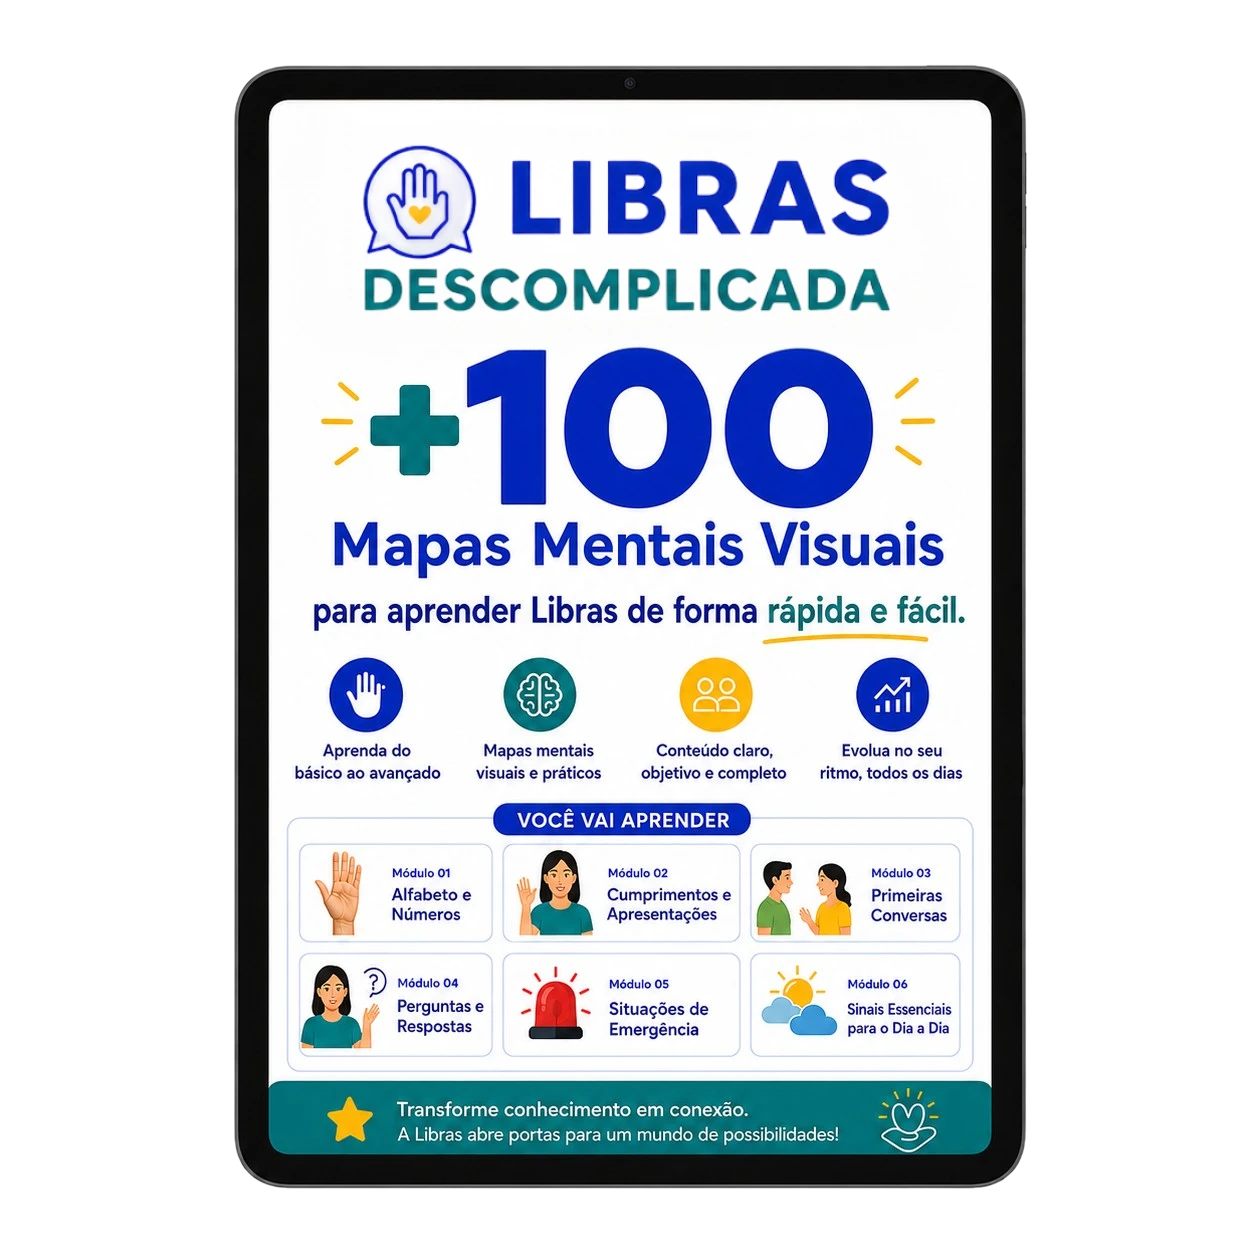
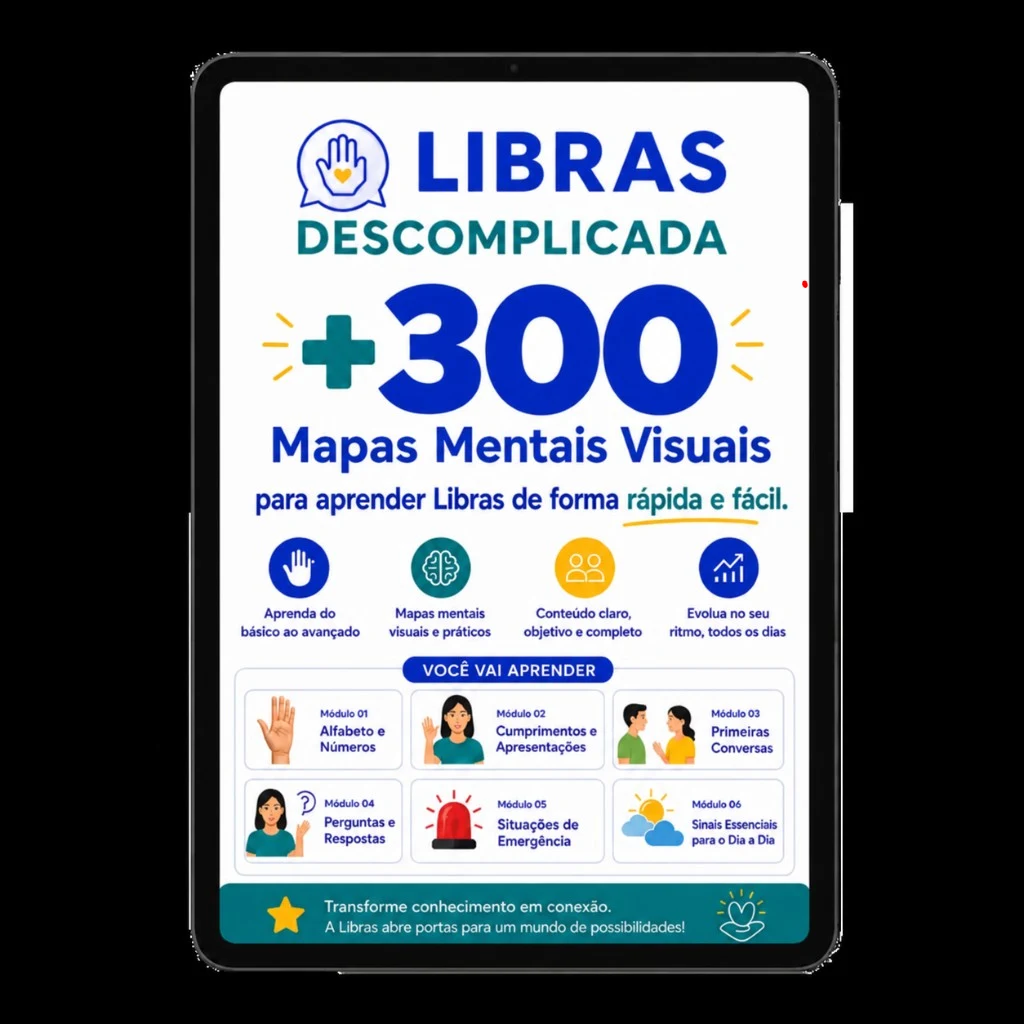
feat: add bonus value footers and refresh landing assets
Show original bonus prices with strikethrough and GRÁTIS labels, update hero/pricing visuals, and add testimonials section assets.

diff --git a/src/sections/TestimonialsSection.tsx b/src/sections/TestimonialsSection.tsx
@@ -1,0 +1,64 @@
+import Image from "next/image";
+
+const testimonials = [
+  {
+    src: "/images/ui/depoimento-mariana.webp",
+    alt: "Depoimento de Mariana S. no WhatsApp elogiando o método de mapas mentais de Libras",
+  },
+  {
+    src: "/images/ui/depoimento-ricardo.webp",
+    alt: "Depoimento de Ricardo no WhatsApp sobre a qualidade do material Descomplica Libras",
+  },
+  {
+    src: "/images/ui/depoimento-lucas.webp",
+    alt: "Depoimento de Lucas no WhatsApp recomendando o material para familiares",
+  },
+] as const;
+
+type Props = {
+  className?: string;
+  containerClassName?: string;
+};
+
+export function TestimonialsSection({
+  className = "bg-white py-10 sm:py-14 px-4",
+  containerClassName = "max-w-5xl mx-auto",
+}: Props) {
+  return (
+    <section className={className} aria-labelledby="testimonials-title">
+      <div className={containerClassName}>
+        <div className="text-center mb-8 sm:mb-10">
+          <h2
+            id="testimonials-title"
+            className="text-2xl sm:text-3xl md:text-4xl font-extrabold text-ink tracking-tight text-balance"
+          >
+            O que nossos clientes dizem
+          </h2>
+          <div className="mx-auto mt-3 mb-2.5 h-0.5 w-10 rounded-full bg-orange-400" aria-hidden="true" />
+          <p className="text-sm sm:text-base text-body/70 font-medium">
+            Depoimentos reais de quem já experimentou
+          </p>
+        </div>
+
+        <div className="flex flex-col items-center gap-5 sm:grid sm:grid-cols-3 sm:items-stretch sm:gap-4 lg:gap-6">
+          {testimonials.map((item) => (
+            <div
+              key={item.src}
+              className="w-full max-w-[20rem] sm:max-w-none rounded-2xl overflow-hidden shadow-[0_8px_24px_rgba(13,27,61,0.10)] border border-zinc-200/80 bg-white"
+            >
+              <Image
+                src={item.src}
+                alt={item.alt}
+                width={326}
+                height={418}
+                loading="lazy"
+                sizes="(max-width: 640px) 85vw, (max-width: 1024px) 28vw, 18rem"
+                className="w-full h-auto object-cover"
+              />
+            </div>
+          ))}
+        </div>
+      </div>
+    </section>
+  );
+}

diff --git a/src/sections/PricingSection.tsx b/src/sections/PricingSection.tsx
@@ -17,22 +17,22 @@ export function PricingSection() {
           {copy.pricing.title}
         </h2>
 
-        <div className="grid grid-cols-1 md:grid-cols-2 gap-8 md:gap-0 items-stretch max-w-md md:max-w-4xl mx-auto px-2 sm:px-0">
+        <div className="grid grid-cols-1 md:grid-cols-2 gap-8 md:gap-0 items-stretch max-w-lg md:max-w-4xl mx-auto px-1 sm:px-0">
           {/* Basic */}
-          <div className="bg-white border border-zinc-200 p-6 sm:p-10 rounded-[2.5rem] md:rounded-r-none md:border-r-0 relative flex flex-col justify-between shadow-[0_10px_30px_rgba(0,0,0,0.06)]">
+          <div className="bg-white border border-zinc-200 p-5 sm:p-10 rounded-[2.5rem] md:rounded-r-none md:border-r-0 relative flex flex-col justify-between shadow-[0_10px_30px_rgba(0,0,0,0.06)]">
             <div>
-              <h3 className="text-lg sm:text-xl font-bold text-body/60 mb-5 text-center leading-snug tracking-widest uppercase">
+              <h3 className="text-lg sm:text-xl font-bold text-body/60 mb-4 sm:mb-5 text-center leading-snug tracking-widest uppercase">
                 {copy.pricing.basic.name}
               </h3>
-              <div className="w-full mb-6 flex items-center justify-center pointer-events-none overflow-hidden py-2">
+              <div className="w-full mb-5 sm:mb-6 flex items-center justify-center pointer-events-none px-1">
                 <Image
                   src="/images/mockup/produto-principal.webp"
-                  alt="Mockup do Plano Básico"
-                  width={680}
-                  height={780}
+                  alt="Mockup do Plano Básico — +300 Mapas Mentais Visuais"
+                  width={1024}
+                  height={1024}
                   loading="lazy"
-                  sizes="20rem"
-                  className="w-full max-w-[20rem] h-auto object-contain drop-shadow-[0_8px_20px_rgba(13,27,61,0.10)]"
+                  sizes="(max-width: 640px) 58vw, 14rem"
+                  className="w-[min(100%,14rem)] sm:max-w-[15rem] h-auto object-contain drop-shadow-[0_8px_20px_rgba(13,27,61,0.10)]"
                 />
               </div>
               <ul className="space-y-4 mb-8 text-sm font-semibold text-body">
@@ -84,15 +84,15 @@ export function PricingSection() {
                 {copy.pricing.complete.name}
               </h3>
 
-              <div className="w-full flex items-center justify-center mb-7 mt-2 pointer-events-none">
+              <div className="w-full flex items-center justify-center mb-6 sm:mb-7 mt-2 pointer-events-none px-0 sm:px-1">
                 <Image
                   src="/images/mockup/hero-bundle.webp"
-                  alt="Mockup do Plano Completo"
-                  width={680}
-                  height={780}
+                  alt="Mockup do Plano Completo — biblioteca +300 mapas mentais e 4 bônus"
+                  width={1024}
+                  height={731}
                   loading="lazy"
-                  sizes="24rem"
-                  className="w-full max-w-sm h-auto object-contain drop-shadow-[0_15px_30px_rgba(13,27,61,0.14)] group-hover:scale-[1.03] transition-transform duration-500"
+                  sizes="(max-width: 640px) 94vw, 24rem"
+                  className="w-full max-w-[min(100%,22rem)] sm:max-w-sm h-auto object-contain drop-shadow-[0_15px_30px_rgba(13,27,61,0.14)] group-hover:scale-[1.03] transition-transform duration-500"
                 />
               </div>
 

diff --git a/src/app/checkout/[plan]/page.tsx b/src/app/checkout/[plan]/page.tsx
@@ -3,6 +3,7 @@ import Image from "next/image";
 import Link from "next/link";
 import { notFound } from "next/navigation";
 import { CheckoutForm } from "@/components/CheckoutForm";
+import { TestimonialsSection } from "@/sections/TestimonialsSection";
 import { MetritoCheckoutTracker } from "@/components/MetritoCheckoutTracker";
 import { PLANS, isPlanSlug } from "@/lib/hoopay";
 import { SITE } from "@/lib/site";
@@ -12,14 +13,14 @@ const PLAN_UI = {
     name: "Plano Básico",
     amountLabel: `R$ ${SITE.prices.basic}`,
     image: "/images/mockup/produto-principal.webp",
-    bullets: ["Biblioteca Digital com +100 Mapas Mentais Visuais de Libras"],
+    bullets: ["Biblioteca Digital com +300 Mapas Mentais Visuais de Libras"],
   },
   completo: {
     name: "Plano Completo + 4 Bônus",
     amountLabel: `R$ ${SITE.prices.complete}`,
     image: "/images/mockup/hero-bundle.webp",
     bullets: [
-      "Biblioteca Digital com +100 Mapas Mentais Visuais",
+      "Biblioteca Digital com +300 Mapas Mentais Visuais",
       "4 bônus exclusivos inclusos",
       "Acesso imediato e vitalício",
     ],
@@ -60,9 +61,9 @@ export default async function CheckoutPage({
           <Image
             src={ui.image}
             alt={`Mockup do ${ui.name}`}
-            width={96}
-            height={110}
-            className="w-20 h-auto object-contain shrink-0"
+            width={plan === "basico" ? 1024 : 1024}
+            height={plan === "basico" ? 1024 : 731}
+            className={`shrink-0 h-auto object-contain ${plan === "basico" ? "w-[4.5rem] sm:w-20" : "w-24 sm:w-28"}`}
           />
           <div className="min-w-0">
             <h1 className="text-lg sm:text-xl font-extrabold text-ink leading-snug">{ui.name}</h1>
@@ -86,6 +87,11 @@ export default async function CheckoutPage({
           amountLabel={ui.amountLabel}
           amount={PLANS[plan].amount}
           enableCreditCard={process.env.ENABLE_CREDIT_CARD !== "false"}
+        />
+
+        <TestimonialsSection
+          className="mt-8 sm:mt-10"
+          containerClassName="max-w-lg mx-auto"
         />
 
         <p className="mt-6 text-center text-xs text-body/60 flex items-center justify-center gap-2 flex-wrap">

diff --git a/src/lib/content.ts b/src/lib/content.ts
@@ -10,7 +10,7 @@ export const copy = {
   },
 
   hero: {
-    highlight: "+100 Mapas Mentais Visuais",
+    highlight: "+300 Mapas Mentais Visuais",
     rest: "para dominar",
     accent: "Libras",
     suffix: "de forma rápida e simples",
@@ -126,10 +126,10 @@ export const copy = {
     brand: "Descomplica Libras",
     titleAfter: ":",
     badge: "ACESSO IMEDIATO",
-    heading: "+100 Mapas Mentais Visuais de Libras",
+    heading: "+300 Mapas Mentais Visuais de Libras",
     intro: "Ao garantir hoje, você recebe:",
     features: [
-      "Biblioteca Digital com +100 Mapas Mentais Visuais",
+      "Biblioteca Digital com +300 Mapas Mentais Visuais",
       "Acesse por celular, computador, tablet ou baixe para imprimir",
       "Cumprimentos e Apresentações",
       "Primeiras Conversas em Libras",
@@ -159,24 +159,28 @@ export const copy = {
         title: "Roteiro de Conversação em Libras",
         text: "Aprenda a iniciar, manter e encerrar conversas em Libras com frases e sinais essenciais para o dia a dia.",
         image: "/images/mockup/bonus-01.webp",
+        originalPrice: 27,
       },
       {
         id: "02",
         title: "Manual de Inclusão e Etiqueta com Pessoas Surdas",
         text: "Descubra como se comunicar com respeito, evitar erros comuns e tornar cada interação mais natural e acolhedora.",
         image: "/images/mockup/bonus-02.webp",
+        originalPrice: 67,
       },
       {
         id: "03",
         title: "Guia dos 100 Sinais Essenciais",
         text: "Tenha sempre à mão os 100 sinais mais usados em Libras para consultar rápido sempre que surgir uma dúvida.",
         image: "/images/mockup/bonus-03.webp",
+        originalPrice: 47,
       },
       {
         id: "04",
         title: "Libras no Ambiente Profissional",
         text: "Aprenda os sinais mais importantes para atender clientes, pacientes, alunos e colegas com mais segurança e inclusão.",
         image: "/images/mockup/bonus-04.webp",
+        originalPrice: 57,
       },
     ],
     cta: "QUERO TODOS OS BÔNUS",
@@ -187,7 +191,7 @@ export const copy = {
     basic: {
       name: "PLANO BÁSICO",
       features: [
-        "Acesso à Biblioteca Digital com +100 Mapas Mentais Visuais de Libras",
+        "Acesso à Biblioteca Digital com +300 Mapas Mentais Visuais de Libras",
       ],
       priceLabel: "Por apenas",
       cta: "QUERO O PLANO BÁSICO",
@@ -198,7 +202,7 @@ export const copy = {
       name: "PLANO COMPLETO",
       social: "🔥 + de 2.847 alunos\nescolheram este plano",
       features: [
-        "Biblioteca Digital com +100 Mapas Mentais Visuais",
+        "Biblioteca Digital com +300 Mapas Mentais Visuais",
         "Cumprimentos e Apresentações",
         "Primeiras Conversas em Libras",
         "Perguntas e Respostas Mais Usadas",
@@ -250,7 +254,7 @@ export const copy = {
       },
       {
         q: "O material é um curso em vídeo?",
-        a: "Não. O Descomplica Libras é uma biblioteca digital com mais de 100 mapas mentais visuais, feita para facilitar o aprendizado e a consulta rápida dos sinais.",
+        a: "Não. O Descomplica Libras é uma biblioteca digital com mais de 300 mapas mentais visuais, feita para facilitar o aprendizado e a consulta rápida dos sinais.",
       },
       {
         q: "Vou conseguir aprender sem fazer um curso longo?",

diff --git a/src/sections/BonusesSection.tsx b/src/sections/BonusesSection.tsx
@@ -34,17 +34,22 @@ export function BonusesSection() {
                   className="w-full h-full object-contain drop-shadow-[0_10px_22px_rgba(13,27,61,0.20)] group-hover:scale-[1.03] transition-all duration-500"
                 />
               </div>
-              <div className="pt-6 pb-8 px-6 sm:px-10 flex-1 flex flex-col">
-                <div className="text-white font-black text-xs tracking-wider uppercase mb-2 flex items-center gap-2">
+              <div className="pt-6 pb-6 px-6 sm:px-10 flex-1 flex flex-col">
+                <div className="text-white font-black text-xs tracking-wider uppercase mb-2">
                   <span className="bg-white/15 px-2.5 py-1 rounded-md">BÔNUS {bonus.id}</span>
-                  <span className="bg-cta text-ink px-2.5 py-1 rounded-md font-black tracking-widest shadow-sm">
-                    {copy.bonuses.free}
-                  </span>
                 </div>
                 <h3 className="text-xl sm:text-2xl font-bold text-white mb-3 leading-snug text-balance">
                   {bonus.title}
                 </h3>
                 <p className="text-white/75 text-sm leading-relaxed text-balance">{bonus.text}</p>
+              </div>
+              <div className="bg-white border-t border-zinc-200 px-6 sm:px-10 py-4 flex items-center justify-between">
+                <span className="text-red-600 font-bold text-lg sm:text-xl line-through">
+                  R${bonus.originalPrice}
+                </span>
+                <span className="text-amber-500 font-black text-lg sm:text-xl tracking-wide uppercase">
+                  {copy.bonuses.free}
+                </span>
               </div>
             </article>
           ))}

diff --git a/src/sections/HeroSection.tsx b/src/sections/HeroSection.tsx
@@ -28,19 +28,19 @@ export function HeroSection() {
           {copy.hero.rest} <span className="text-cta-darker">{copy.hero.accent}</span> {copy.hero.suffix}
         </h1>
 
-        <div className="relative w-full max-w-[26rem] sm:max-w-4xl mx-auto mt-2 sm:mt-4">
-          <div className="relative max-w-[26rem] sm:max-w-2xl mx-auto">
+        <div className="relative w-full max-w-[22rem] sm:max-w-4xl mx-auto mt-2 sm:mt-4">
+          <div className="relative max-w-[22rem] sm:max-w-3xl mx-auto">
             <div
               className="absolute inset-x-6 top-4 h-1/2 bg-gradient-to-tr from-cta/25 to-cta/10 blur-[70px] sm:blur-[110px] rounded-full -z-10 pointer-events-none"
               aria-hidden="true"
             />
             <Image
               src="/images/mockup/hero-bundle.webp"
-              alt="Descomplica Libras — pacote completo com biblioteca de mapas mentais visuais e bônus"
-              width={680}
-              height={780}
+              alt="Descomplica Libras — pacote completo com +300 mapas mentais visuais e bônus"
+              width={1024}
+              height={731}
               priority
-              sizes="(max-width: 640px) 90vw, 42rem"
+              sizes="(max-width: 640px) 92vw, 42rem"
               className="w-full h-auto object-contain"
             />
           </div>

diff --git a/src/sections/ProductSection.tsx b/src/sections/ProductSection.tsx
@@ -28,12 +28,12 @@ export function ProductSection() {
             <div className="absolute inset-0 bg-cta/8 blur-[80px] rounded-full scale-110 pointer-events-none" aria-hidden="true" />
             <Image
               src="/images/mockup/produto-principal.webp"
-              alt="Visual do Descomplica Libras — biblioteca de mapas mentais"
-              width={680}
-              height={780}
+              alt="Visual do Descomplica Libras — +300 mapas mentais visuais"
+              width={1024}
+              height={1024}
               loading="lazy"
-              sizes="(max-width: 1024px) 90vw, 34rem"
-              className="w-full max-w-lg h-auto object-contain drop-shadow-[0_20px_40px_rgba(13,27,61,0.18)]"
+              sizes="(max-width: 1024px) 75vw, 28rem"
+              className="w-full max-w-[18rem] sm:max-w-md lg:max-w-lg h-auto object-contain drop-shadow-[0_20px_40px_rgba(13,27,61,0.18)]"
             />
           </div>
 

diff --git a/src/app/layout.tsx b/src/app/layout.tsx
@@ -35,9 +35,9 @@ export const metadata: Metadata = {
     images: [
       {
         url: "/images/mockup/hero-bundle.webp",
-        width: 680,
-        height: 780,
-        alt: `${SITE.name} — pacote completo`,
+        width: 1024,
+        height: 731,
+        alt: `${SITE.name} — +300 mapas mentais visuais e bônus`,
       },
     ],
   },

diff --git a/src/lib/site.ts b/src/lib/site.ts
@@ -18,10 +18,10 @@ export const SITE = {
 } as const;
 
 export const SEO = {
-  title: "Descomplica Libras | +100 Mapas Mentais Visuais para aprender Libras",
+  title: "Descomplica Libras | +300 Mapas Mentais Visuais para aprender Libras",
   description:
-    "+100 Mapas Mentais Visuais para dominar Libras de forma rápida e simples. Perfeito para quem começa do zero e quer só os sinais que realmente usa.",
-  ogTitle: "Descomplica Libras | +100 Mapas Mentais Visuais",
+    "+300 Mapas Mentais Visuais para dominar Libras de forma rápida e simples. Perfeito para quem começa do zero e quer só os sinais que realmente usa.",
+  ogTitle: "Descomplica Libras | +300 Mapas Mentais Visuais",
   ogDescription:
     "Domine Libras de forma rápida, visual e simples — sem cursos intermináveis.",
 } as const;

diff --git a/src/app/page.tsx b/src/app/page.tsx
@@ -10,6 +10,7 @@ import { HeroSection } from "@/sections/HeroSection";
 import { IdealForSection } from "@/sections/IdealForSection";
 import { PricingSection } from "@/sections/PricingSection";
 import { ProductSection } from "@/sections/ProductSection";
+import { TestimonialsSection } from "@/sections/TestimonialsSection";
 import { UrgencySection } from "@/sections/UrgencySection";
 
 export default function HomePage() {
@@ -27,6 +28,7 @@ export default function HomePage() {
         <BonusesSection />
         <PricingSection />
         <FaqSection />
+        <TestimonialsSection />
         <FooterSection />
       </main>
       <StickyCta />

diff --git a/src/components/JsonLd.tsx b/src/components/JsonLd.tsx
@@ -23,7 +23,7 @@ export function JsonLd() {
 
   const course = {
     "@type": "Course",
-    name: `${SITE.name} — +100 Mapas Mentais Visuais`,
+    name: `${SITE.name} — +300 Mapas Mentais Visuais`,
     description: SEO.description,
     provider: {
       "@type": "Organization",

diff --git a/src/types/content.ts b/src/types/content.ts
@@ -5,6 +5,7 @@ export type BonusItem = {
   title: string;
   text: string;
   image: string;
+  originalPrice: number;
 };
 
 export type FaqItem = {